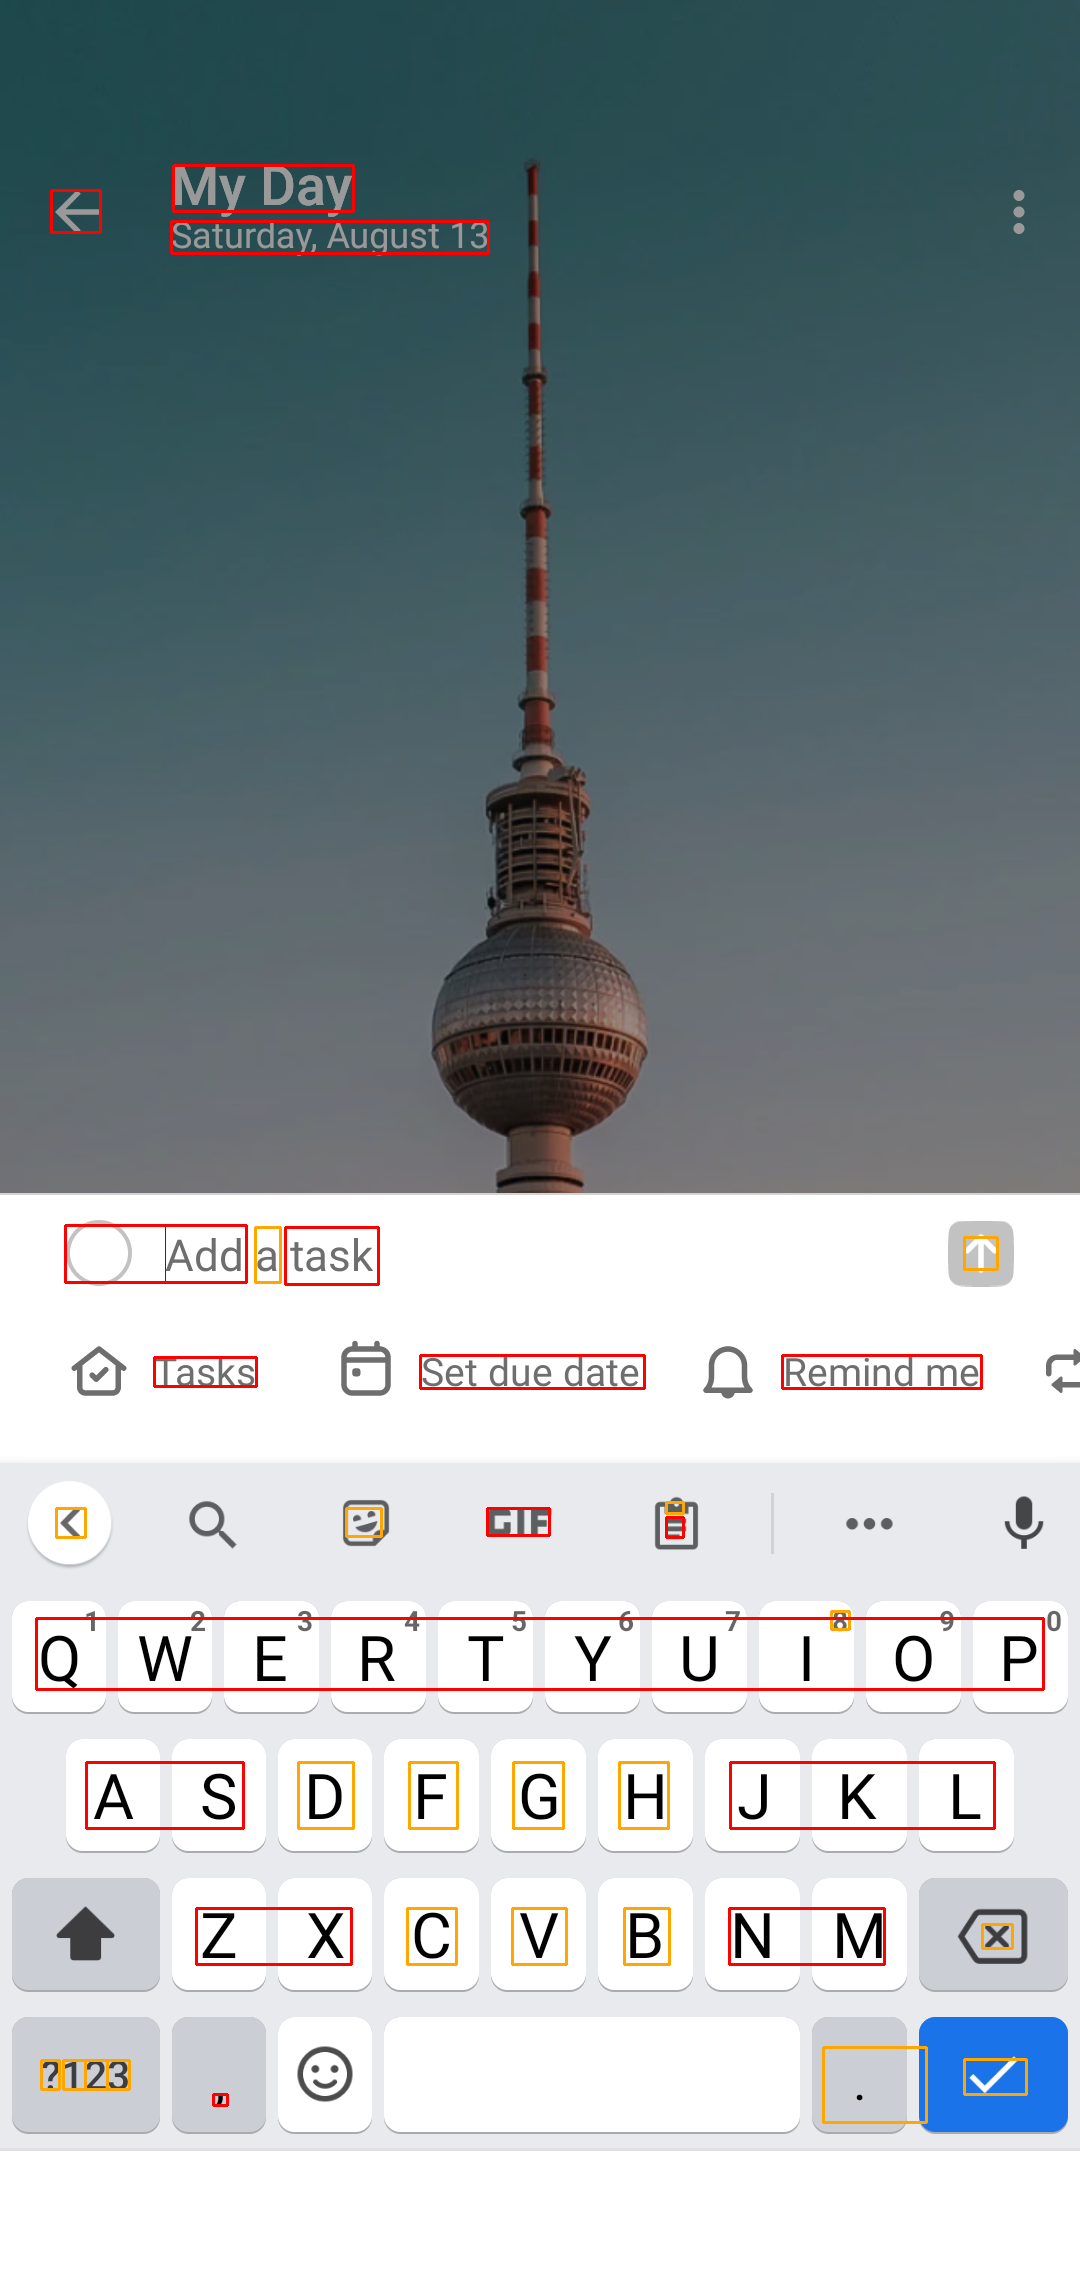
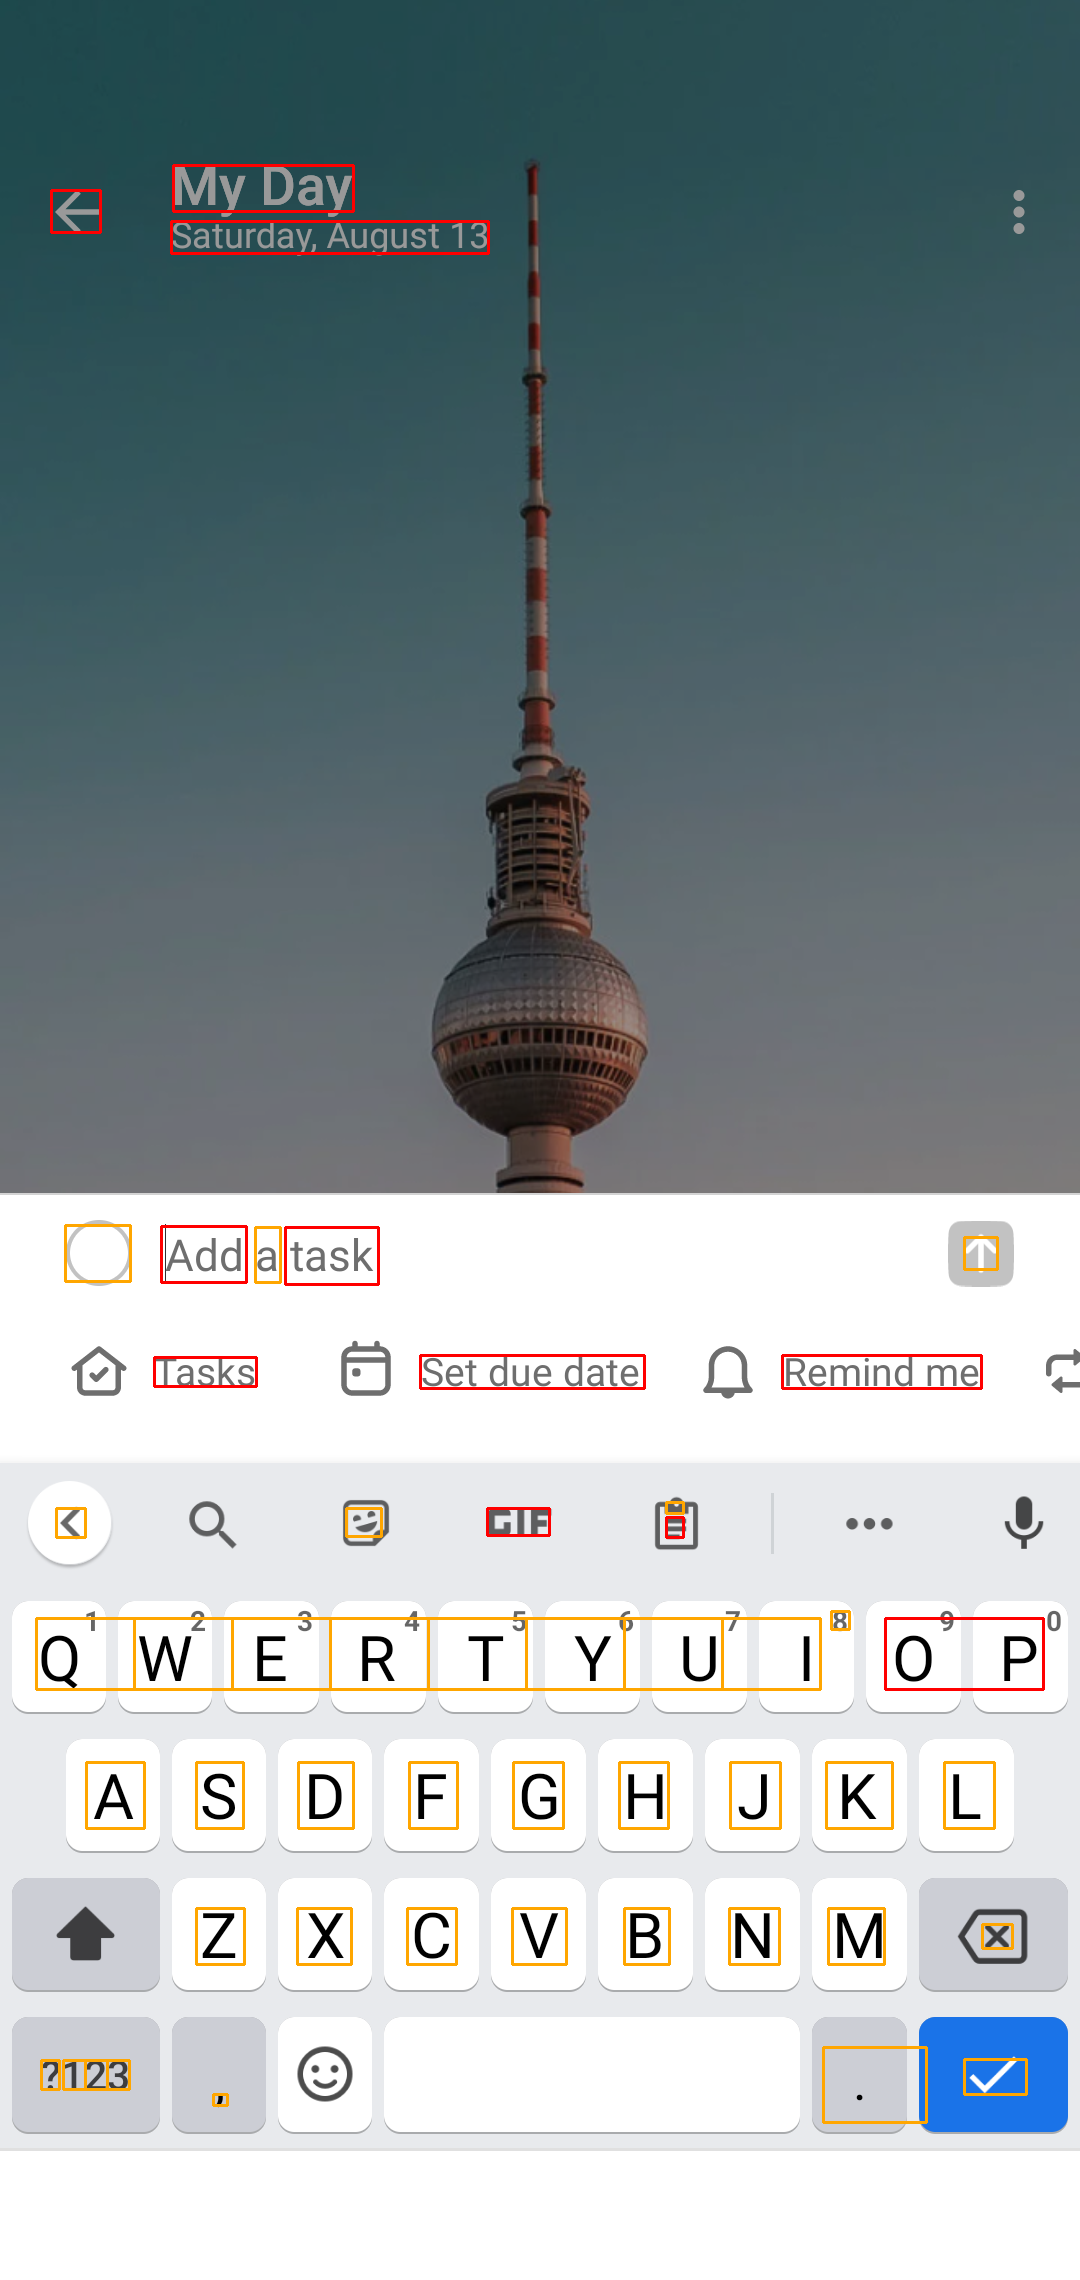
remove blank spaces and lowercase the content when compared with the keyboard alphabet

diff --git a/element_detection/detect_text/Text.py b/element_detection/detect_text/Text.py
@@ -128,7 +128,7 @@ class Text:
     *** Revise the Text ***
     ***********************
     '''
-    def check_sting_overlap(self, left_text, right_text, lower_case=True, rm_uncommon_letters=True):
+    def check_string_overlap(self, left_text, right_text, lower_case=True, rm_uncommon_letters=True):
         '''
         "ghjk" + "jkl" = "ghjkl"
         :return: cur
@@ -166,13 +166,13 @@ class Text:
 
         # merge text content
         if not concat:
-            cur = self.check_sting_overlap(self.content, text_b.content)
+            cur = self.check_string_overlap(self.content, text_b.content)
             # if any overlap,
             if cur != 0:
                 self.content = self.content + text_b.content[cur:]
             else:
                 # if no overlap, change the sequence of the two texts and check again
-                cur = self.check_sting_overlap(text_b.content, self.content)
+                cur = self.check_string_overlap(text_b.content, self.content)
                 if cur != 0:
                     self.content = text_b.content + self.content[cur:]
                 # if still no overlap, simply concat the two strings
@@ -332,7 +332,7 @@ class Text:
         keyboard_alphabet = 'qwertyuiopasdfghjklzxcvbnm1234567890@#$_&-+()/*"\':;!?'
         loc = self.location
         letters = []
-        if self.content in keyboard_alphabet:
+        if self.content.replace(' ', '').lower() in keyboard_alphabet:
             for i in range(len(self.content) - 1):
                 content = self.content[i]
                 location = {'top': loc['top'], 'bottom': loc['bottom'],
